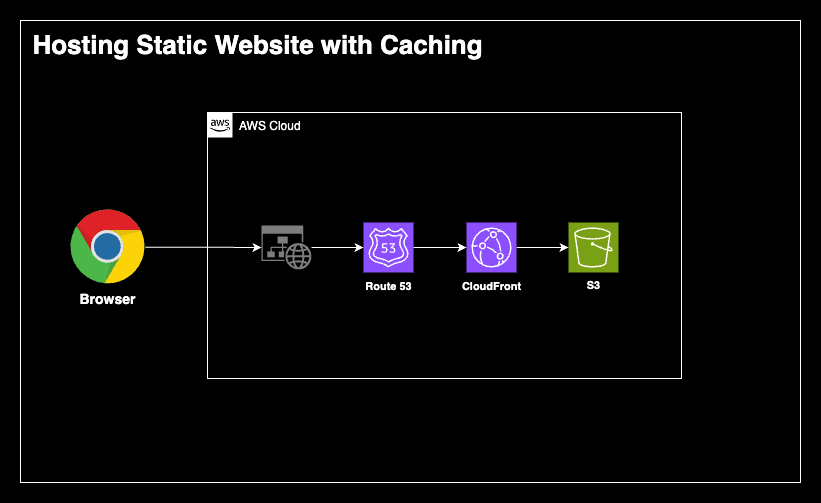
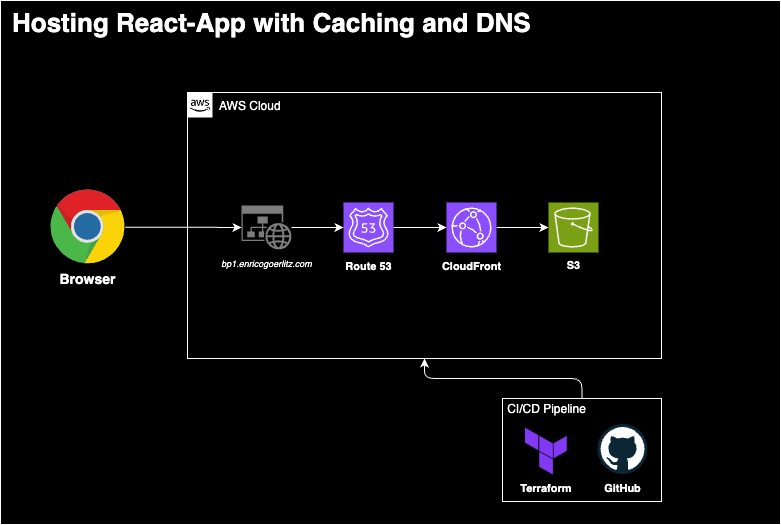
terraform implemented

diff --git a/README.md b/README.md
@@ -4,7 +4,14 @@
 
 ![Architecture Diagram](architecture.png)
 
-
 # 1. Configuration by Console
 
 # 2. Terraform deployment
+
+```bash
+$ terraform init
+$ terraform plan
+$ terraform apply
+```
+
+# 3. CI/CD Pipeline
